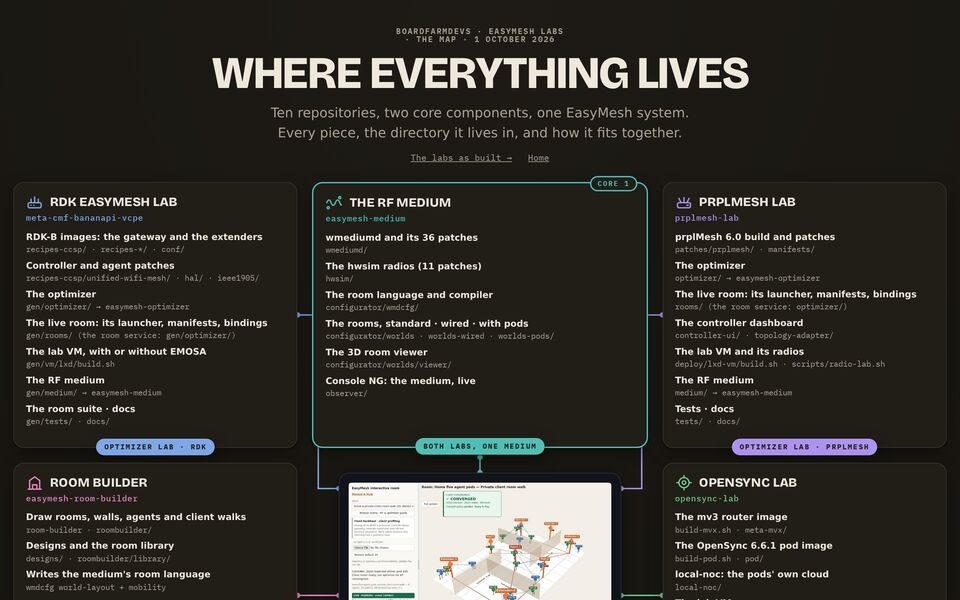
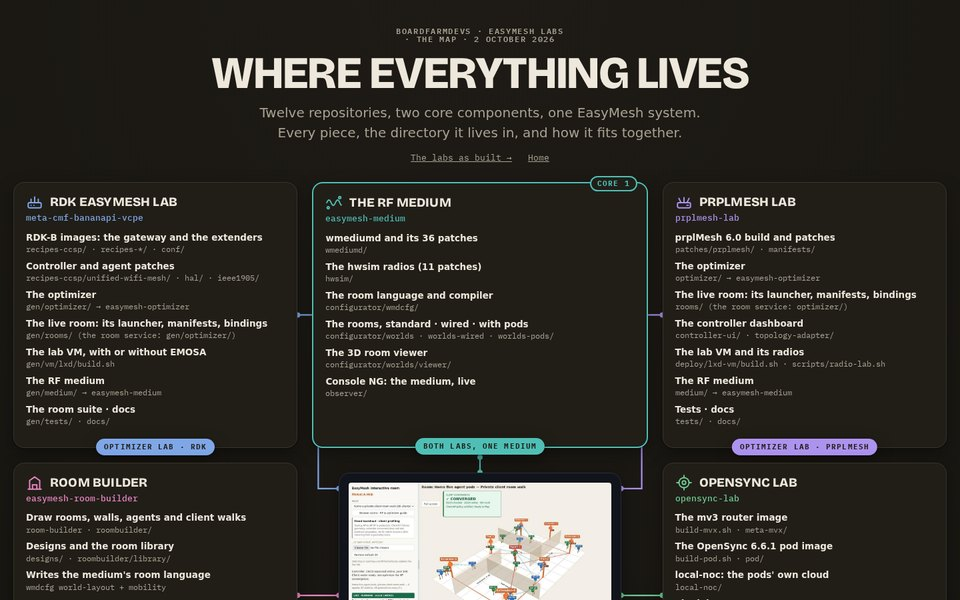
The umbrella with the clients and remote access: the site's shared section and state, the map poster's twelve repositories, the labs poster's way in from outside, the thumbnails, the README and the documents

diff --git a/site/posters/map.html b/site/posters/map.html
@@ -7,7 +7,7 @@
 <link rel="icon" href="../favicon.ico" sizes="48x48">
 <link rel="icon" href="../favicon.svg" type="image/svg+xml">
 <link rel="apple-touch-icon" href="../apple-touch-icon.png">
-<meta name="description" content="Where every component of the EasyMesh labs lives: ten repositories, two core components, and the directory each piece is in.">
+<meta name="description" content="Where every component of the EasyMesh labs lives: twelve repositories, two core components, and the directory each piece is in.">
 <link rel="preconnect" href="https://fonts.googleapis.com">
 <link rel="stylesheet" href="https://fonts.googleapis.com/css2?family=Bricolage+Grotesque:opsz,wght@12..96,600;12..96,800&family=IBM+Plex+Mono:wght@400;500;600;700&display=swap">
 <link rel="stylesheet" href="posters.css">
@@ -15,14 +15,14 @@
 <body>
 <main class="poster">
   <header class="masthead">
-    <p class="eyebrow">boardfarmdevs · EasyMesh labs · the map · 1 October 2026</p>
+    <p class="eyebrow">boardfarmdevs · EasyMesh labs · the map · 2 October 2026</p>
     <h1>Where everything lives</h1>
-    <p>Ten repositories, two core components, one EasyMesh system. Every piece, the directory it
+    <p>Twelve repositories, two core components, one EasyMesh system. Every piece, the directory it
     lives in, and how it fits together.</p>
     <nav><a href="labs.html">The labs as built →</a> <a href="../index.html">Home</a></nav>
   </header>
 
-  <section class="board fourth" aria-label="The repositories around one of the labs">
+  <section class="board fifth" aria-label="The repositories around one of the labs">
 
     <article class="card rdk a" id="rdk">
       <h2><svg viewBox="0 0 24 24" fill="none" stroke="currentColor" stroke-width="1.8" stroke-linecap="round"><rect x="3" y="13" width="18" height="7" rx="2"/><path d="M7 13V8M12 13V5M17 13V8M7 16.5h.01M11 16.5h.01"/></svg>RDK EasyMesh lab</h2>
@@ -156,7 +156,32 @@
       <span class="pill">Both labs, one optimizer</span>
     </article>
 
-    <article class="card resources below j">
+    <article class="card clients below j">
+      <h2><svg viewBox="0 0 24 24" fill="none" stroke="currentColor" stroke-width="1.8" stroke-linecap="round"><rect x="8" y="10" width="8" height="11" rx="1.6"/><path d="M9 6.6a4.4 4.4 0 0 1 6 0M6.4 4a8 8 0 0 1 11.2 0M12 17.5h.01"/></svg>The Wi-Fi clients</h2>
+      <p class="repo"><a href="https://github.com/boardfarmdevs/easymesh-clients">easymesh-clients</a></p>
+      <ul class="rows">
+        <li><b>What each lab's clients are, exactly</b><code>docs/reference/lab-clients.md</code></li>
+        <li><b>More capable clients: a contract, actions, models</b><code>docs/proposals/more-capable-clients.md</code></li>
+        <li><b>The clients themselves: still each lab's own</b><code>meta-cmf gen/wlan-client.sh · prplmesh-lab scripts/radio-lab.sh</code></li>
+      </ul>
+      <span class="pill">Described in one place</span>
+    </article>
+
+    <article class="card remote wide k">
+      <h2><svg viewBox="0 0 24 24" fill="none" stroke="currentColor" stroke-width="1.8" stroke-linecap="round" stroke-linejoin="round"><rect x="3" y="9" width="12" height="11" rx="2"/><path d="M11 13l9-9M15 4h5v5"/></svg>Remote access</h2>
+      <p class="repo"><a href="https://github.com/boardfarmdevs/easymesh-remote">easymesh-remote</a></p>
+      <ul class="rows">
+        <li><b>The gateway: a login and one reservation in front of a lab</b><code>gateway/gateway.py · remote_state.py · web/</code></li>
+        <li><b>Configure, users, publish, maintenance, firewall</b><code>gateway/manage.py · install-host.sh · *.service</code></li>
+        <li><b>Its tests, also in a browser with two accounts</b><code>tests/</code></li>
+        <li><b>Setting a lab host up</b><code>docs/guides/setup.md</code></li>
+        <li><b>What each lab publishes, and on which ports</b><code>docs/reference/lab-endpoints.md</code></li>
+        <li><b>Every lab reachable: a directory, observers, one window</b><code>docs/proposals/remote-labs.md</code></li>
+      </ul>
+      <span class="pill">Reach a lab from anywhere</span>
+    </article>
+
+    <article class="card resources below l">
       <h2><svg viewBox="0 0 24 24" fill="none" stroke="currentColor" stroke-width="1.8" stroke-linecap="round"><path d="M4 5a2 2 0 0 1 2-2h12v16H6a2 2 0 0 0-2 2z"/><path d="M4 21V5M8 7h6M8 11h6"/></svg>Resources</h2>
       <p class="repo"><a href="https://vcpe.dev/easymesh-resources/">easymesh-resources</a></p>
       <ul class="rows">
@@ -181,6 +206,8 @@
           <tr><td><span class="dot emosa"></span><b>EMOSA</b></td><td><code>emosa-lab src/emosa/ · c/</code></td><td>the <code>emosa</code> container, next to the controller</td></tr>
           <tr><td><span class="dot osl"></span><b>OpenSync pods</b></td><td><code>opensync-lab pod/</code></td><td>pod containers; image pinned in <code>manifest.json</code></td></tr>
           <tr><td><span class="dot builder"></span><b>Room builder</b></td><td><code>easymesh-room-builder</code></td><td>your browser, no lab needed</td></tr>
+          <tr><td><span class="dot clients"></span><b>The clients</b></td><td><code>meta-cmf gen/wlan-client.sh</code> · <code>prplmesh-lab scripts/radio-lab.sh</code>; described in <code>easymesh-clients</code></td><td>each lab VM, one container per client</td></tr>
+          <tr><td><span class="dot remote"></span><b>Remote access</b></td><td><code>easymesh-remote gateway/</code></td><td>the lab host, in front of the VM's ports</td></tr>
         </tbody>
       </table></div>
     </article>
@@ -206,6 +233,8 @@
         <li><span><b>EMOSA</b><span class="status one">one</span></span><small>one repository; C and Python share one specification and its vectors</small></li>
         <li><span><b>The optimizer</b><span class="status one">one</span></span><small>one repository since 30 September, both labs pin it; the physical lab keeps its small teaching one</small></li>
         <li><span><b>The room service</b><span class="status one">one</span></span><small>in easymesh-optimizer with the optimizer since 30 September; each lab keeps its rooms</small></li>
+        <li><span><b>The clients</b><span class="status two">two</span></span><small>each lab builds its own; described in easymesh-clients since 2 October</small></li>
+        <li><span><b>The remote gateway</b><span class="status two">two</span></span><small>in easymesh-remote since 2 October; the RDK lab's copy is still to be removed</small></li>
       </ul>
     </article>
   </section>

diff --git a/site/index.html b/site/index.html
@@ -140,6 +140,45 @@
     </figure>
   </section>
 
+  <section id="shared">
+    <h2>Shared by the labs</h2>
+    <div class="goals">
+      <article class="goal">
+        <p class="tag">Shared</p>
+        <h3>The Wi-Fi clients</h3>
+        <p>Every lab runs them: small containers with one simulated radio that join the mesh
+        as a phone or a laptop would. What each lab's clients are and do, written down in one
+        place, and what is proposed to make them more capable.</p>
+        <ul class="projects">
+          <li><a href="https://vcpe.dev/easymesh-clients/"><b>easymesh-clients</b></a>
+            <span>documents only for now; each lab still creates its own clients</span></li>
+        </ul>
+      </article>
+      <article class="goal">
+        <p class="tag">Shared</p>
+        <h3>Remote access</h3>
+        <p>A lab is a VM on a large host. The gateway puts a login and one reservation in front
+        of its web interfaces, privately or publicly over Tailscale, so a lab can be used from
+        anywhere by one operator at a time.</p>
+        <ul class="projects">
+          <li><a href="https://vcpe.dev/easymesh-remote/"><b>easymesh-remote</b></a>
+            <span>the gateway and its tests, the setup guide, what each lab publishes; the RDK
+            lab's layout today</span></li>
+        </ul>
+      </article>
+      <article class="goal">
+        <p class="tag">Shared</p>
+        <h3>Resources</h3>
+        <p>Material the labs share that is not code for a lab: the memory footprint of EasyMesh
+        on the MV3 router, and the plan that takes it to production.</p>
+        <ul class="projects">
+          <li><a href="https://vcpe.dev/easymesh-resources/"><b>easymesh-resources</b></a>
+            <span>the footprint model with its measurements, and the production plan</span></li>
+        </ul>
+      </article>
+    </div>
+  </section>
+
   <section id="state">
     <h2>Current state</h2>
     <div class="table-wrap"><table>
@@ -149,6 +188,10 @@
           <td>One repository for both optimizer labs: one wmediumd patch series, one configurator, the same rooms, the console and the controller's topology page. CI builds and tests it without a lab; both labs build it at a pinned commit.</td></tr>
         <tr><td><a href="https://vcpe.dev/easymesh-optimizer/">Optimizer</a></td>
           <td>One optimizer and room service for both labs, an adapter per stack, and the acceptance tools both labs' suites run; requalified in both labs.</td></tr>
+        <tr><td><a href="https://vcpe.dev/easymesh-clients/">Clients</a></td>
+          <td>Described in one place since 2 October: what each lab's clients are, how they are built, configured and managed, and what reaches into them. Each lab still creates its own. Proposed: a written contract, named actions such as traffic between two clients, and client models.</td></tr>
+        <tr><td><a href="https://vcpe.dev/easymesh-remote/">Remote access</a></td>
+          <td>The gateway (a login, one exclusive reservation, private or public over Tailscale, a firewall for the direct ports) in its own repository since 2 October, with its tests in CI. It serves the RDK lab's layout; the RDK lab's own copy is still to be removed. Proposed: every lab, a directory of labs, observers, a lab's interfaces in one window.</td></tr>
         <tr><td><a href="https://vcpe.dev/meta-cmf-bananapi-vcpe/#state">RDK EasyMesh</a></td>
           <td>Rebuilt and requalified on the current medium, optimizer and controller image, with four Wi-Fi extenders and a wired one. With the EMOSA option (emosa-lab at a pinned commit), two OpenSync pods on Wi-Fi backhaul join the native agents in the standard rooms.</td></tr>
         <tr><td><a href="https://vcpe.dev/prplmesh-lab/#state">prplMesh</a></td>
@@ -196,7 +239,9 @@ cd ~/git/easymesh-labs
       </tbody>
     </table></div>
     <p>Their current VMs and hosts are in
-    <a href="https://github.com/boardfarmdevs/easymesh-labs/blob/main/docs/reference/lab-configurations.md">the lab configurations</a>.</p>
+    <a href="https://github.com/boardfarmdevs/easymesh-labs/blob/main/docs/reference/lab-configurations.md">the lab configurations</a>.
+    How a lab is reached from outside the lab network is in
+    <a href="https://vcpe.dev/easymesh-remote/">remote access</a>.</p>
   </section>
 
   <section id="reference">

diff --git a/site/posters/posters.css b/site/posters/posters.css
@@ -6,6 +6,7 @@
   --line: #e2d8c8; --shadow: 0 1px 2px rgba(60, 40, 10, .06), 0 8px 24px rgba(60, 40, 10, .08);
   --medium: #0f6e6a; --emosa: #b4540b; --rdk: #2b5ea8; --prpl: #6a47bf; --osl: #2b7a4b;
   --phys: #c03c34; --builder: #b0327d; --umbrella: #3c4658; --optimizer: #4650b4; --resources: #7a6524;
+  --clients: #5d7a14; --remote: #17789b;
   --display: "Bricolage Grotesque", "Avenir Next", system-ui, sans-serif;
   --body: system-ui, -apple-system, "Segoe UI", Roboto, sans-serif;
   --mono: "IBM Plex Mono", ui-monospace, "SFMono-Regular", Menlo, monospace;
@@ -17,6 +18,7 @@
     --line: #3a342a; --shadow: 0 1px 2px rgba(0, 0, 0, .4), 0 8px 24px rgba(0, 0, 0, .35);
     --medium: #4fbfb6; --emosa: #f0a35e; --rdk: #7fa7e8; --prpl: #ad93f0; --osl: #6fcb93;
     --phys: #ef8a81; --builder: #ea86c3; --umbrella: #a9b3c6; --optimizer: #9ba3f3; --resources: #dcc27a;
+    --clients: #b4d06a; --remote: #6cc4e4;
     color-scheme: dark;
   }
 }
@@ -25,6 +27,7 @@
   --line: #3a342a; --shadow: 0 1px 2px rgba(0, 0, 0, .4), 0 8px 24px rgba(0, 0, 0, .35);
   --medium: #4fbfb6; --emosa: #f0a35e; --rdk: #7fa7e8; --prpl: #ad93f0; --osl: #6fcb93;
   --phys: #ef8a81; --builder: #ea86c3; --umbrella: #a9b3c6; --optimizer: #9ba3f3; --resources: #dcc27a;
+  --clients: #b4d06a; --remote: #6cc4e4;
   color-scheme: dark;
 }
 
@@ -59,6 +62,9 @@ a { color: inherit; }
   /* a fourth row for the cards without a connector line: a wide one and a narrow one */
   .board.fourth { grid-template-areas: "a b c" "d x e" "f g h" "i i j"; align-items: stretch; }
   .i { grid-area: i; } .j { grid-area: j; }
+  /* and a fifth, the same shape */
+  .board.fifth { grid-template-areas: "a b c" "d x e" "f g h" "i i j" "k k l"; align-items: stretch; }
+  .k { grid-area: k; } .l { grid-area: l; }
   .card.wide .rows { grid-template-columns: repeat(2, minmax(0, 1fr)); column-gap: 26px; }
 }
 .wires { position: absolute; inset: 0; width: 100%; height: 100%; pointer-events: none; overflow: visible; }
@@ -150,7 +156,7 @@ td code { font: 11.5px/1.4 var(--mono); color: var(--muted); }
 .medium { --c: var(--medium); } .emosa { --c: var(--emosa); } .rdk { --c: var(--rdk); }
 .prpl { --c: var(--prpl); } .osl { --c: var(--osl); } .phys { --c: var(--phys); }
 .builder { --c: var(--builder); } .umbrella { --c: var(--umbrella); } .optimizer { --c: var(--optimizer); }
-.resources { --c: var(--resources); }
+.resources { --c: var(--resources); } .clients { --c: var(--clients); } .remote { --c: var(--remote); }
 
 /* the labs poster */
 .hosts { display: grid; gap: 16px; grid-template-columns: repeat(auto-fit, minmax(min(100%, 280px), 1fr)); margin-bottom: 34px; }

diff --git a/site/posters/labs.html b/site/posters/labs.html
@@ -18,7 +18,8 @@
     <p class="eyebrow">boardfarmdevs · EasyMesh labs · the labs as built · 1 October 2026</p>
     <h1>The labs, running</h1>
     <p>Five lab VMs on three hosts: what runs inside each, where the optimizer runs, and the
-    address to open. The addresses are on the lab network.</p>
+    address to open. The addresses are on the lab network; from anywhere else, a lab is reached
+    through <a href="https://vcpe.dev/easymesh-remote/">remote access</a>.</p>
     <nav><a href="map.html">← Where everything lives</a> <a href="../index.html">Home</a></nav>
   </header>
 

diff --git a/docs/README.md b/docs/README.md
@@ -11,6 +11,13 @@
 | [Labs as a service](proposals/labs-as-a-service.md) | proposal | the labs for remote optimizer developers |
 | [EMOSA's product apart from its lab](proposals/emosa-product-split.md) | proposal | carving the EMOSA product out of emosa-lab at the handover |
 
+Two subjects have their own repositories and documents since 2 October 2026: the labs'
+Wi-Fi clients ([easymesh-clients](https://vcpe.dev/easymesh-clients/): what each lab's
+clients are, and the proposal for more capable clients, which builds on the client models
+proposal above) and remote access ([easymesh-remote](https://vcpe.dev/easymesh-remote/):
+the gateway, its setup guide, what each lab publishes, and the proposal for remote labs,
+which the labs as a service proposal above stands on).
+
 Every project of the labs keeps its documents the same way: `docs/README.md` indexes them,
 and they are grouped by kind: `concepts/` (how something works), `guides/` (how to do
 something), `reference/` (what exactly something is), `project/` (plans and decisions),

diff --git a/docs/reference/lab-configurations.md b/docs/reference/lab-configurations.md
@@ -28,6 +28,14 @@ pins gives what the running VMs have.
 | rev150 | `emosa-osl-0925` (#4); the room browser for the labs on rev140 and rev120, container builds and fuzzing |
 | rev120 | `rdk-emosa-1001` (#5) and `easymesh-lab` (#6), whose physical devices are attached to rev120: physical tests run there. No prplMesh VMs or builders |
 
+## Reaching a lab
+
+Each lab VM publishes its web interfaces as ports on its host, on the lab network. Which
+interfaces each configuration has, and how a lab is reached from outside the lab network
+(the gateway, with a login and one reservation), is in
+[easymesh-remote](https://vcpe.dev/easymesh-remote/). The gateway serves the RDK lab's
+layout (#1 and #5) today.
+
 ## Not (yet) a configuration
 
 - **The combined end-goal system**: one controller, native agents and OpenSync pods on

diff --git a/README.md b/README.md
@@ -61,7 +61,9 @@ Banana Pi images) with the commit each was built from. The projects are cloned n
 to it and ignored by this repository. `./sync` never discards work: a project with
 local changes, its own commits or on another branch is left as it is. Build trees and
 caches (Yocto, downloads, sstate) stay outside the workspace; each project's guide
-says where. The room builder is not cloned.
+says where. The room builder, the resources, the clients' documents and the remote access
+gateway are not in the manifest and are not cloned: no lab is built from them. Clone
+[easymesh-remote](https://vcpe.dev/easymesh-remote/) on a lab host to install its gateway.
 
 ## Documentation
 

diff --git a/docs/proposals/labs-as-a-service.md b/docs/proposals/labs-as-a-service.md
@@ -6,6 +6,12 @@ room UI) exactly as it is.
 
 **Prepared:** 26 September 2026, from the user's request of 25 September.
 
+**Since 2 October 2026:** remote access itself has its own repository,
+[easymesh-remote](https://vcpe.dev/easymesh-remote/): the gateway that exists (a
+login and one reservation in front of a lab's web interfaces, over Tailscale), its
+setup guide and the proposal to make every lab reachable. The service described
+here, a remote optimizer with an API and a library, stands on that.
+
 ## 1. Goal
 
 An optimizer developer who has no lab of their own develops and qualifies an

diff --git a/docs/proposals/client-models.md b/docs/proposals/client-models.md
@@ -7,6 +7,11 @@ model is today's client.
 **Prepared:** 29 September 2026, from the user's question of the same day
 (can the lab's clients behave like different kinds of real devices).
 
+**Since 2 October 2026:** the clients have their own repository,
+[easymesh-clients](https://vcpe.dev/easymesh-clients/): what each lab's clients
+are today, and a proposal for more capable clients in which the models here are
+the third of four steps and the catalog (open question 1) would live there.
+
 ## 1. Goal
 
 Every Wi-Fi client in the RDK and prplMesh labs is the same Linux client:
